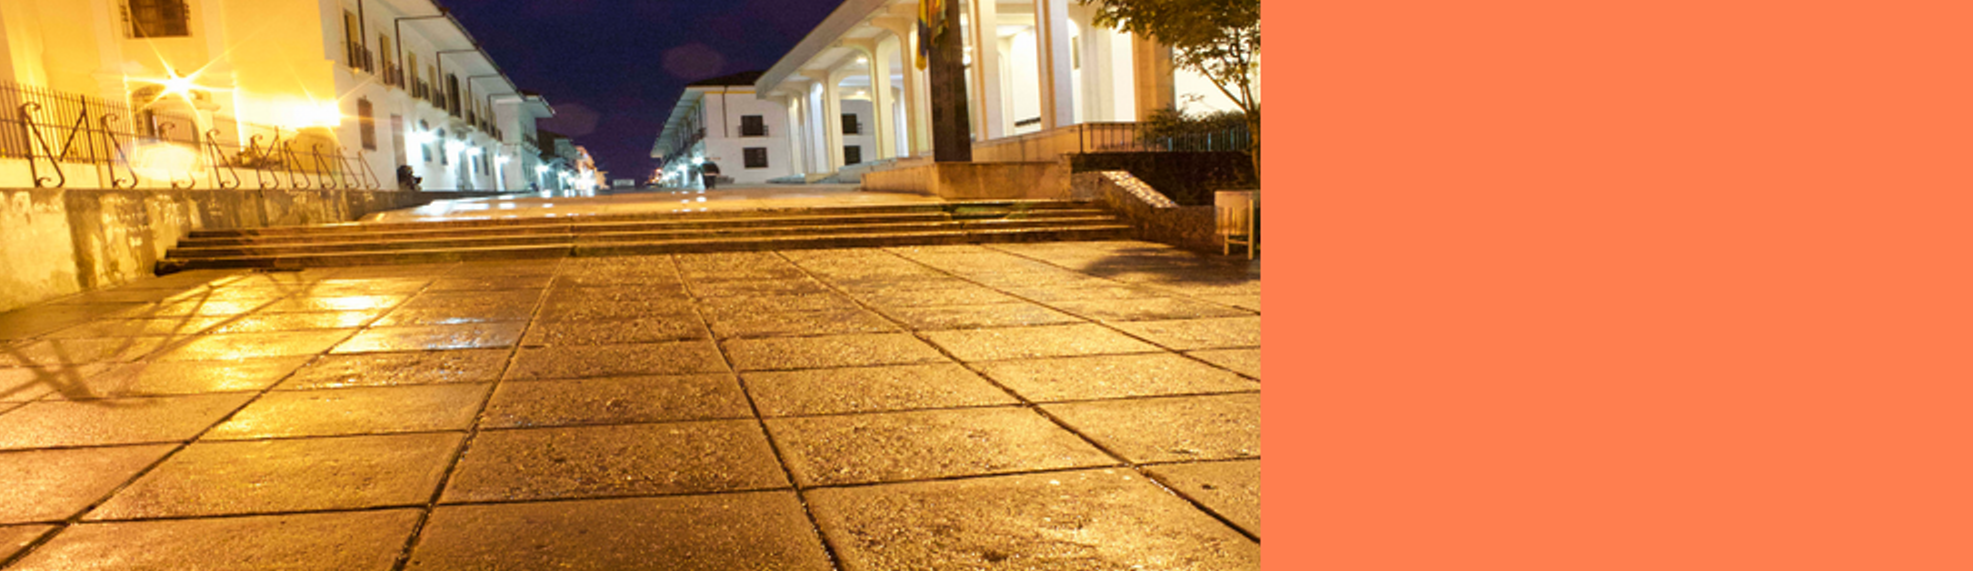
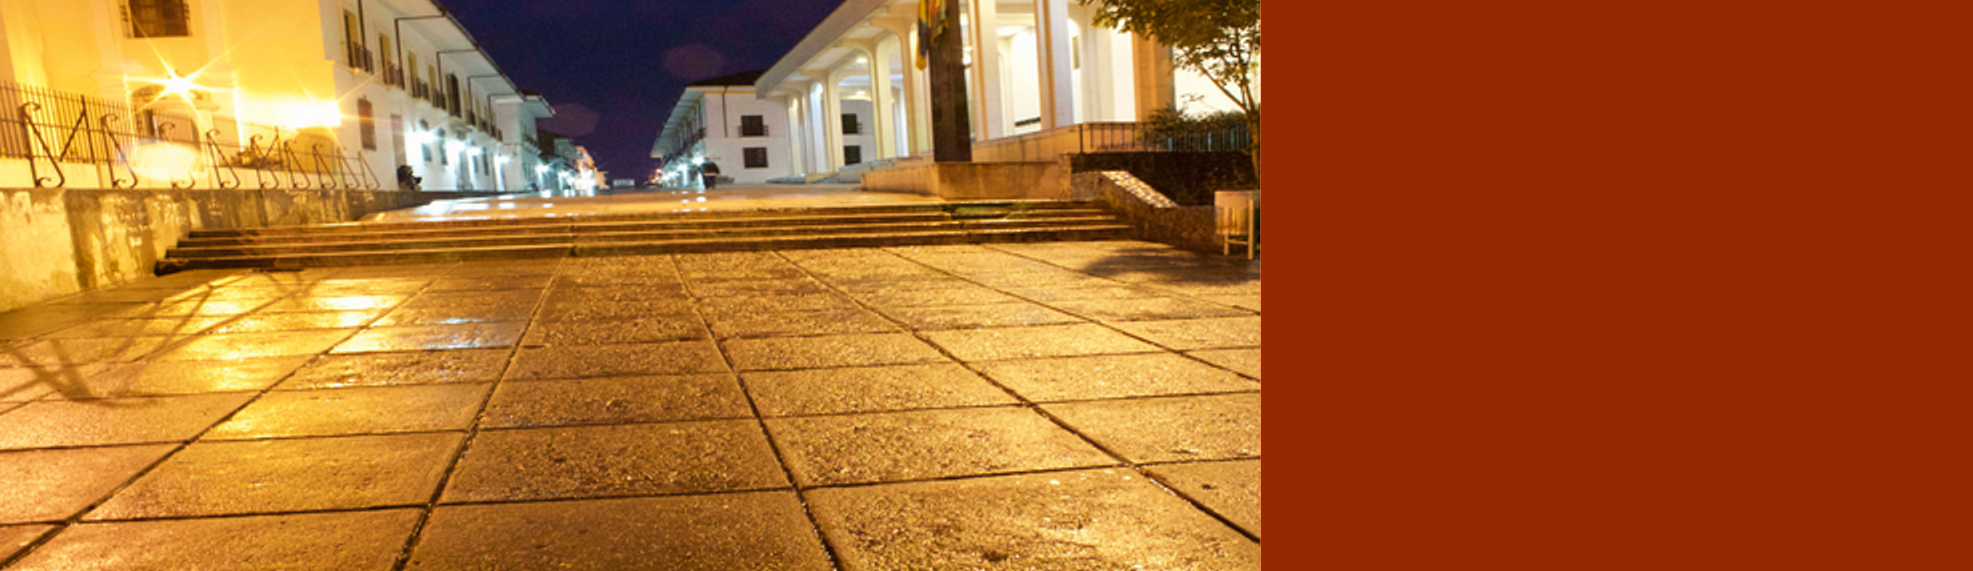
#4->Administrador de SIIT
Se creo el administrador del SIIT de forma responsive

diff --git a/index/siit.html b/index/siit.html
@@ -8,7 +8,7 @@
         <!--  css-->
         <link rel="stylesheet" href="css/bootstrap.min.css"/>
         <link rel="stylesheet" href="css/jquery-ui.css"/>
-        <link rel="stylesheet" href="css/index.css"/>
+        <link rel="stylesheet" href="css/inicio.css"/>
 
         <!-- !css-->
 
@@ -16,14 +16,15 @@
         <script type="text/javascript" src="js/jquery.js"></script>
         <script type="text/javascript" src="js/jquery-ui.min.js"></script>
         <script type="text/javascript" src="js/jquery-ui.js"></script>
+        <script type="text/javascript" src="js/index.js"></script>
         <!-- !js-->
 
     </head>
     <body>
-        <div class="container-fluid">
+        <div class="container-fluid" id="contenido">
             <div class="page-header">
                 <div class="row">
-                    <div class="col-xs-6 col-md-3">
+                    <div class="col-lg-3">
                         <img class="img-thumbnail" src="images/Logo.jpg" />
                     </div>
                     <div class="col-lg-9">
@@ -31,20 +32,18 @@
                     </div>
                 </div>
             </div>
+            <nav class="navbar navbar-default">
+                <div class="navbar-default" >
+                    <ul class="nav navbar-default" id="menu_header">
+                        <li class="active"><a href="#">SIIT</a></li>
+                        <li><a href="">ADMINISTRADOR</a></li>
+                        <li><a href="">PROVEEDORES</a></li>
+                        <li><a href="">CONTACTO</a></li>
+                    </ul>
+                </div>
+            </nav>
             <div class="panel panel-default">
-                <div class="panel-body">
-                    <nav class="navbar navbar-default">
-                        <div class="navbar-default" >
-                            <ul class="nav navbar-nav" id="menu_header">
-                                <li class="active"><a href="">SIIT</a></li>
-                                <li><a href="">Administrador</a></li>
-                                <li><a href="">Proveedores</a></li>
-                                <li><a href="">Contacto</a></li>
-                            </ul>
-                        </div>
-                    </nav>
-
-
+                <div class="panel-body" id="panel1">
                     <div class="row">
                         <div class="col-lg-12">
                             <div class="thumbnail">
@@ -52,45 +51,21 @@
                             </div>
                         </div>
                     </div>
+                </div>
+                <div class="panel-body" id="panel2">
+
                     <div class="row">
-                        <div class="col-sm-6 col-md-4">
-                            <div class="thumbnail">
-                                <div class="caption">
-                                    <h2>PAQUETE SEMANA SANTA POPAYÁN 10 DÍAS. TODO INCLUIDO</h2>
-                                </div>
-                                <img src="images/other/paquete-1.jpg" alt="...">
-                                <div class="caption">
-                                    <h4>Ut wisi enim ad minim veniam, quis nostrud exerci tation ullamcorper suscipit lobortis nisl ut aliquip</h4>
-                                    <p><a href="#" class="btn btn-default" role="button">Ver mas</a></p>
-                                </div>
-                            </div>
-                        </div>
-                        <div class="col-sm-6 col-md-4">
-                            <div class="thumbnail">
-                                <div class="caption">
-                                    <h2>PAQUETE NAVIDAD BLANCA, POPAYÁN 30 DÍAS. TODO INCLUIDO</h2>
-                                </div>
-                                <img src="images/other/paquete-2.jpg" alt="...">
-                                <div class="caption">
-                                    <h4>Ut wisi enim ad minim veniam, quis nostrud exerci tation ullamcorper suscipit lobortis nisl ut aliquip</h4>
-                                    <p><a href="#" class="btn btn-default" role="button">Ver mas</a></p>
-                                </div>
-                            </div>
-                        </div>
-                        <div class="col-sm-6 col-md-4">
-                            <div class="thumbnail">
-                                <div class="caption">
-                                    <h2>PAQUETE NAVIDAD BLANCA, POPAYÁN 30 DÍAS. TODO INCLUIDO</h2>
-                                </div>
-                                <img src="images/other/paquete-2.jpg" alt="...">
-                                <div class="caption">
-                                    <h4>Ut wisi enim ad minim veniam, quis nostrud exerci tation ullamcorper suscipit lobortis nisl ut aliquip</h4>
-                                    <p><a href="#" class="btn btn-default" role="button">Ver mas</a></p>
-                                </div>
-                            </div>
+                        <div id="ListaPaquetes">
+
                         </div>
                     </div>
                 </div>
+
+            </div>
+        </div>
+        <div id="footer">
+            <div class="container-fluid">
+                <div class="container-footer">asd</div>
             </div>
         </div>
     </body>

diff --git a/css/inicio.css b/css/inicio.css
@@ -1,0 +1,99 @@
+body{
+    background: #ece7d4 url("../images/d8bb9e84e5170600e38a9b796e6922cf.jpg") no-repeat scroll center top;
+}
+.img-thumbnail{
+    max-width: 190px;
+    min-width: 190px;
+    width: 30%; height: auto;
+}
+#panel2{
+    background: linear-gradient(#EBEDF0, #F9FAFB);
+    padding: 0;
+}
+#panel1{
+    padding: 2px 2px 2px 2px;
+    background-color: #EBEDF0;
+}
+.container-footer{
+    padding-left: 2%;
+    padding-right: 2%;
+    padding-bottom: 2% ;
+    padding-top:2% ;
+    color: #FFF;   
+}
+#footer{
+    background-color: #09683D;
+}
+.page-header{
+    color: #FFF;
+}
+.ReadMore{
+    color: #F26D38;
+    font-family: fantasy;
+    text-decoration: none;
+}
+a.ReadMore{
+    text-decoration: none;
+    color: #F26D38;
+}
+.active{
+    background-color: #FF9F7B;
+}
+.navbar-default {
+    background-color: #962900;
+    border-color: #BE3E0E;
+    text-align: center;
+}
+.nav>li>a:hover {
+    color:#962900;
+    background-color: #E85B27;
+    font-weight:bold;
+}
+.nav>li>a 
+{font: normal bold 14px Arial,Helvetica,sans-serif;
+ color: #FFF;
+}
+@media (min-width: 999px)
+{ 
+
+    #contenido{
+        padding-left: 12%;
+        padding-right: 12%;
+    }
+    #menu_header{
+        display: -webkit-box;
+    }
+
+    .nav>li>a:hover {
+        color:#962900;
+        background-color: #E85B27;
+        font-weight:bold;
+    }
+    .navbar-default {
+        background-color: transparent;
+        border-color: transparent;
+    }
+    .nav>li>a 
+    {
+        position: relative;
+        display: block;
+    }
+    .nav>li>a 
+    {font: normal bold 14px Arial,Helvetica,sans-serif;
+     color: #FFF;
+    }
+    .nav {
+        margin-bottom: -1px;
+    }
+    .container-footer{
+        padding-left: 15%;
+        padding-right: 15%;
+
+    }
+    .img-thumbnail{
+        max-width: 190px;
+        min-width: 190px;
+        width: 100%; height: auto;
+    }
+
+}

diff --git a/js/index.js b/js/index.js
@@ -1,0 +1,14 @@
+function VerPaquetes()
+{
+    $.ajax({
+        type: 'POST',
+        url: "Ajax/AjaxListadoPaquetes.php",
+        success: function (Resultado)
+        {
+            $('#ListaPaquetes').html(Resultado);
+        }
+    });
+}
+$(function(){
+    VerPaquetes();
+});

diff --git a/Ajax/AjaxListadoPaquetes.php b/Ajax/AjaxListadoPaquetes.php
@@ -1,0 +1,25 @@
+<?php
+
+include_once '../Controller/Servicios.php';
+$Paquetes = new Servicios();
+$Datos    = $Paquetes->VerPaquetes();
+$Res      = array();
+for ($i = 0; $i < 3 && isset($Datos[$i]); $i++)
+{
+    $Res[] = $Datos[$i];
+}
+foreach ($Res as $Temp)
+{
+    echo '<div class="col-sm-6 col-md-4">
+                            <div class="thumbnail">
+                                <div class="caption">
+                                    <h2>' . $Temp['Nombre'] . '</h2>
+                                </div>
+                                <img src="' . $Temp['urlFoto'] . '" alt="...">
+                                <div class="caption">
+                                    <h4>' . substr($Temp['Descripcion'], 0, 300) . '...</h4>
+                                    <p><a href="#" class="ReadMore" role="button">Ver mas</a></p>
+                                </div>
+                            </div>
+                        </div>';
+}

diff --git a/Model/ModelServicios.php b/Model/ModelServicios.php
@@ -34,6 +34,7 @@ class ModelServicios
             `paquete`.`Fecha_inicio`,
             `paquete`.`Fecha_fin`,
             `paquete`.`Descripcion`,
+            `paquete`.`urlFoto`,
             `paquete`.`Disponible`,
             `paquete`.`Estado`
           FROM
